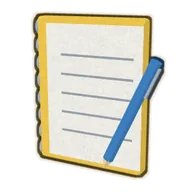
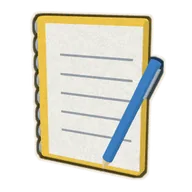
Símbolos de doble cara con detalle por los dos lados: pizarrón, libreta, rompecabezas, diálogo, bata, cubrebocas, blíster, suero, hilo dental, trofeo, moneda, maleta, fábrica, casa con plano y plato

diff --git a/datos/simbolos3d/models.js b/datos/simbolos3d/models.js
@@ -101,6 +101,7 @@ export const MODELS={
     [-18,18].forEach(x=>{K.box(5,55,29,'#8A4A16',{p:[x,-4,0],rad:1.4});[14.8,-14.8].forEach(z=>K.box(6,5,1.4,ST,{m:'metal',p:[x,14,z],rad:0.8}))});
     [[-28,-14],[28,-14],[-28,14],[28,14]].forEach(([x,z])=>K.sph(3.4,BK,{p:[x,-33,z]}));
     K.box(14,10,1,WH,{p:[2,-8,14.6],rad:1});K.box(8,1,1.2,'#9AA3AC',{p:[2,-8,15],rad:0.3});
+    K.box(30,22,1,'#C9661E',{p:[0,-4,-14.4],rad:2});[-8,8].forEach(x=>K.box(2,18,1.4,'#8A4A16',{p:[x,-4,-14.8],rad:0.6}));
   },
 
   // Silla de madera con respaldo de travesaños
@@ -123,6 +124,7 @@ export const MODELS={
     K.tube([[-40,-30,0],[-18,-6,0],[-4,-16,0],[24,20,0]],4,GR,{tension:0});
     K.cone(9,16,GR,{p:[30,27,0],r:[0,0,-43]});
     K.cyl(12,12,4,GO,{m:'gold',p:[-26,24,0],r:[90,0,0]});K.tor(9,0.8,'#C9961E',{m:'gold',p:[-26,24,2.2]});
+    K.tor(9,0.8,'#C9961E',{m:'gold',p:[-26,24,-2.2]});
   },
   // Billete con marco, retrato y signo de pesos
   'economia.b'(K){
@@ -169,6 +171,7 @@ export const MODELS={
     K.cyl(5,6,52,'#9A4430',{p:[28,8,-8]});[0,10].forEach(y=>K.cyl(6.2,6.2,3,WH,{p:[28,14+y,-8]}));
     [[30,40,6],[36,48,8],[44,54,6]].forEach(([x,y,r])=>K.sph(r,'#D5DCE2',{p:[x,y,-8]}));
     for(let i=0;i<3;i++)K.box(10,8,1,YE,{p:[-22+i*18,-12,18.3],rad:1});K.box(12,16,1,'#5E3A20',{p:[-2,-21,18.3],rad:1});
+    for(let i=0;i<3;i++)K.box(10,8,1,YE,{p:[-22+i*18,-12,-18.3],rad:1});
   },
   // Letra pi en 3D
   'matematicas.a'(K){
@@ -386,6 +389,7 @@ export const MODELS={
     K.box(L,2.4,36,RE,{p:[-6,15,0],r:[0,0,A],rad:0.8});K.box(L,2.4,36,RE,{p:[18,15,0],r:[0,0,-A],rad:0.8});
     [15.2,-15.2].forEach(z=>K.ext('M-20 0 L20 0 L0 -20 Z',0.6,CR,{bevel:0,p:[6,6,z]}));
     K.box(10,16,1,'#8A5A36',{p:[12,-16,15.4],rad:0.4});K.box(10,8,1,GL,{p:[-4,-6,15.4],rad:0.4});
+    K.box(10,8,1,GL,{p:[14,-6,-15.4],rad:0.4});K.box(10,8,1,GL,{p:[-4,-6,-15.4],rad:0.4});
   },
   // Microscopio: base, brazo, platina, revólver, objetivos, ocular y perilla
   'biologia.a'(K){
@@ -505,8 +509,10 @@ export const MODELS={
   'sociologia.b'(K){
     K.ext('M-34 -36 H10 C16 -36 18 -32 18 -26 V-6 C18 0 16 4 10 4 H-16 L-26 14 V4 H-34 C-40 4 -42 0 -42 -6 V-26 C-42 -32 -40 -36 -34 -36 Z',10,BL,{bevel:2,p:[0,0,-6]});
     K.ext('M-6 -2 H34 C40 -2 42 2 42 8 V28 C42 34 40 38 34 38 H28 V48 L18 38 H-6 C-12 38 -14 34 -14 28 V8 C-14 2 -12 -2 -6 -2 Z',10,OR,{bevel:2,p:[2,0,8]});
-    [[-30,24,22],[-30,18,14]].forEach(([x,y,w])=>K.box(w,2.4,1,WH,{p:[x+w/2,y,-0.2],rad:1}));
-    [[-6,-12,30],[-6,-20,20]].forEach(([x,y,w])=>K.box(w,2.4,1,WH,{p:[x+w/2,y,14.2],rad:1}));
+    [[-30,24,22],[-30,18,14]].forEach(([x,y,w])=>K.box(w,2.4,1,WH,{p:[x+w/2,y,1.4],rad:1}));
+    [[-6,-12,30],[-6,-20,20]].forEach(([x,y,w])=>K.box(w,2.4,1,WH,{p:[x+w/2,y,15.6],rad:1}));
+    [[-30,24,22],[-30,18,14]].forEach(([x,y,w])=>K.box(w,2.4,1,WH,{p:[x+w/2,y,-13.6],rad:1}));
+    [[-6,-12,30],[-6,-20,20]].forEach(([x,y,w])=>K.box(w,2.4,1,WH,{p:[x+w/2,y,0.2],rad:1}));
   },
   // Destellos de IA
   'o_chispa.a'(K){
@@ -592,6 +598,7 @@ export const MODELS={
     K.cyl(3,5,14,GO,{m:'gold',p:[0,-9,0]});K.cyl(10,12,4,GO,{m:'gold',p:[0,-18,0]});
     K.box(34,14,24,'#6B4A2A',{m:'wood',p:[0,-27,0],rad:2});K.box(20,6,1,'#F3CB5E',{m:'gold',p:[0,-27,12.4],rad:0.6});
     K.ext('M0 -9 L2.6 -3 L9 -2.8 L4 1.4 L5.6 8 L0 4.4 L-5.6 8 L-4 1.4 L-9 -2.8 L-2.6 -3 Z',2,'#FFF1B0',{m:'gold',bevel:0.6,p:[0,22,23.2]});
+    K.box(20,6,1,'#F3CB5E',{m:'gold',p:[0,-27,-12.4],rad:0.6});K.ext('M0 -9 L2.6 -3 L9 -2.8 L4 1.4 L5.6 8 L0 4.4 L-5.6 8 L-4 1.4 L-9 -2.8 L-2.6 -3 Z',2,'#FFF1B0',{m:'gold',bevel:0.6,p:[0,22,-23.2]});
   },
   // Tenis: suela, cuerpo, puntera, lengüeta, agujetas y franja
   'o_tenis.a'(K){
@@ -627,6 +634,7 @@ export const MODELS={
     K.box(14,8,8,WH,{p:[0,30,-2],rad:3});
     [16,2,-12].forEach(y=>K.sph(1.6,'#9AA3AC',{p:[4,y,8.6]}));
     K.box(10,8,1.4,'#E1E6EA',{p:[14,10,8.4],rad:1});K.cyl(1,1,12,BL,{p:[12,14,9.4]});
+    K.box(2,50,1,'#E1E6EA',{p:[0,-14,-8.6],rad:0.5});K.box(30,5,2,'#E6ECEF',{p:[0,-14,-8.8],rad:1.6});[-12,12].forEach(x=>K.sph(1.4,'#9AA3AC',{p:[x,-14,-10]}));K.box(16,6,2,'#E6ECEF',{p:[0,30,-6],rad:2});
   },
   // Plato con comida, tenedor y cuchillo
   'nutricion.b'(K){
@@ -635,6 +643,7 @@ export const MODELS={
     K.sph(7,GR,{p:[-8,6,-4],s:[1,0.7,1],parent:g});K.sph(6,RE,{p:[8,5,4],s:[1,0.7,1],parent:g});K.sph(5,YE,{p:[4,5,-10],s:[1,0.6,1],parent:g});
     K.box(3,2,40,ST,{m:'metal',p:[-44,2,6],parent:g,rad:0.8});for(let i=0;i<4;i++)K.box(0.9,1.6,12,ST,{m:'metal',p:[-45.4+i*1,2,-20],parent:g,rad:0.3});
     K.box(3,2,34,ST,{m:'metal',p:[44,2,10],parent:g,rad:0.8});K.box(6,1.4,22,ST,{m:'metal',p:[45,2,-16],parent:g,rad:0.6});
+    K.tor(16,1.2,'#E6E1D6',{p:[0,-0.6,0],r:[90,0,0],parent:g});
   },
   // Cinta métrica: caja con cinta saliendo, freno y gancho
   'o_cinta.a'(K){
@@ -658,6 +667,8 @@ export const MODELS={
     const tab=(ax,ay,bx,by,out)=>{const mx=(ax+bx)/2,my=(ay+by)/2,dx=(bx-ax)/48,dy=(by-ay)/48,nx=-dy*out,ny=dx*out;const res=[[mx-dx*7,my-dy*7]];for(let i=0;i<=16;i++){const a=Math.PI*1.25-i/16*Math.PI*1.5;res.push([mx+Math.cos(a)*8*dx*(-1)+nx*(14+Math.sin(a)*8)*0+(-dy*out)*0,0])}return res};
     const shp='M-24 -24 H-8 C-8 -32 8 -32 8 -24 H24 V-8 C32 -8 32 8 24 8 V24 H8 C8 16 -8 16 -8 24 H-24 V8 C-16 8 -16 -8 -24 -8 Z';
     K.ext(shp,12,PU,{bevel:2.4});
+    [[-12,10,'#B78BE0',9],[10,-8,'#6E4592',7],[8,12,'#C9A6EA',5]].forEach(([x,y,c,r])=>K.cyl(r,r,1,c,{p:[x,y,8.6],r:[90,0,0]}));
+    K.ext(shp,1,'#D9C6A8',{bevel:0,p:[0,0,-8.4]});for(let i=0;i<5;i++)K.box(40,0.8,0.6,'#C2AE8C',{p:[0,-16+i*8,-9.2],rad:0.2});
   },
   // Libreta de espiral con hojas y pluma
   'o_libreta.a'(K){
@@ -665,6 +676,7 @@ export const MODELS={
     for(let i=0;i<5;i++)K.box(36,1,0.5,'#9AA3AC',{p:[5,18-i*9,5],rad:0.3});
     for(let i=0;i<8;i++)K.tor(3.4,0.7,ST,{m:'metal',p:[-27,30-i*8.6,0],r:[0,90,0]});
     const p=K.group({p:[24,-4,9],r:[0,0,-25]});K.cyl(2.4,2.4,50,BL,{parent:p});K.cone(2.4,6,'#F2D3A0',{p:[0,-28,0],r:[180,0,0],parent:p});K.box(1.2,14,2,ST,{m:'metal',p:[2.6,16,0],parent:p});
+    K.box(30,10,0.8,WH,{p:[0,14,-4.4],rad:1.4});K.box(22,1.4,1,'#9AA3AC',{p:[0,14,-4.8],rad:0.4});K.box(44,4,0.8,'#E0B23A',{p:[0,-26,-4.4],rad:1});
   },
   // Nube de pensamiento hecha de esferas con burbujas
   'o_pensamiento.a'(K){
@@ -694,6 +706,7 @@ export const MODELS={
     K.tor(4,1.2,'#C9D3DA',{p:[0,39,0]});
     for(let i=0;i<4;i++)K.box(5,0.7,0.6,'#C9A23A',{p:[-16,-10+i*6,5.3],rad:0.2});
     K.cyl(3,3,6,'#E6ECEF',{p:[0,-22,0]});K.cyl(4.2,4.2,12,'#EEF6FA',{m:'glass',p:[0,-31,0]});K.cyl(1,1,16,'#C9D3DA',{p:[0,-44,0]});
+    K.box(26,10,1,WH,{p:[0,24,-5.4],rad:1});K.box(18,1.2,1.2,'#7FA8D6',{p:[0,25,-6],rad:0.4});for(let i=0;i<4;i++)K.box(5,0.7,0.6,'#C9A23A',{p:[16,-10+i*6,-5.3],rad:0.2});
   },
   // Curita con almohadilla y orificios, en relieve
   'o_curita.a'(K){
@@ -710,6 +723,7 @@ export const MODELS={
     K.box(60,34,1.2,'#BFE0F5',{p:[0,0,-2.6],rad:0.6,parent:g});
     K.box(14,1.2,2,'#9AC4E0',{p:[0,16,2],rad:0.5,parent:g});
     [-1,1].forEach(sd=>K.tube([[sd*30,12,-1],[sd*44,10,-8],[sd*44,-10,-8],[sd*30,-12,-1]],1,'#E6EEF4',{parent:g,nocap:true}));
+    for(let i=0;i<3;i++)K.box(58,1,1,'#A9CFE8',{p:[0,14-i*10,-3.6],rad:0.4});
   },
   // Sillón dental reclinado con lámpara
   'o_sillon.a'(K){
@@ -752,6 +766,7 @@ export const MODELS={
     K.box(44,40,22,WH,{p:[0,-8,0],rad:6});K.box(46,14,24,'#5FB4D9',{p:[0,16,0],rad:6});
     K.box(22,10,1,'#E3F2F9',{p:[0,-8,11.4],rad:1.4});K.box(16,1.4,1.4,'#5FB4D9',{p:[0,-8,12],rad:0.5});
     K.tube([[16,22,0],[24,34,0],[34,38,0]],0.6,'#DDEFF7',{});
+    K.box(22,10,1,'#E3F2F9',{p:[0,-8,-11.4],rad:1.4});K.box(16,1.4,1.4,'#5FB4D9',{p:[0,-8,-12],rad:0.5});
   },
   // Camilla con colchón, almohada, barandal y ruedas
   'o_camilla.a'(K){
@@ -794,6 +809,7 @@ export const MODELS={
     for(let r=0;r<3;r++)for(let c=0;c<2;c++){const p=[-14+c*28,-22+r*22,1];K.sph(9,'#EEF6FA',{m:'glass',p,s:[1,0.8,0.5]});
       K.cap(5,6,r==0&&c==1?'#F2A94C':WH,{p:[p[0],p[1],2],r:[0,0,90]})}
     K.box(64,74,0.6,'#C9D0D6',{p:[0,0,-1.3],rad:3});
+    for(let i=0;i<6;i++)K.box(i%2?40:52,1.6,0.4,'#8C96A0',{p:[0,26-i*10,-1.7],rad:0.3});
   },
   // Gotero con perilla de hule y vidrio
   'o_gotero.a'(K){
@@ -1017,6 +1033,9 @@ export const MODELS={
     K.tube([[16,10,0],[28,-2,0]],1,'#F3F1EA',{parent:w});K.tube([[28,10,0],[16,-2,0]],1,'#F3F1EA',{parent:w});
     K.box(70,2,6,'#8A5A36',{m:'wood',p:[0,-15,3],rad:0.6});K.box(10,1.6,1.6,WH,{p:[-12,-13.2,4],rad:0.6});K.box(12,3,4,'#E9677A',{p:[14,-12.6,4],rad:0.8});
     [[-30,6],[30,6]].forEach(([x,z])=>K.cyl(1.6,1.6,30,'#8A5A36',{m:'wood',p:[x*1.1,-26,z],r:[-10,0,x<0?-6:6]}));K.cyl(1.6,1.6,34,'#8A5A36',{m:'wood',p:[0,-24,-10],r:[20,0,0]});
+    const wb=K.group({p:[0,14,-2.8],r:[0,180,0]});
+    [[-6,14,30],[-2,6,22],[-10,-2,26]].forEach(([x,y,l])=>K.tube([[x-l/2,y,0],[x+l/2,y,0]],0.9,'#F3F1EA',{parent:wb}));
+    K.tube([[16,12,0],[22,4,0],[28,12,0]],1,'#F3F1EA',{parent:wb,tension:0});K.tube([[16,-2,0],[28,-2,0]],1,'#F3F1EA',{parent:wb});
   },
   // Birrete: tablero, gorro, botón y borla
   'educacion.b'(K){
